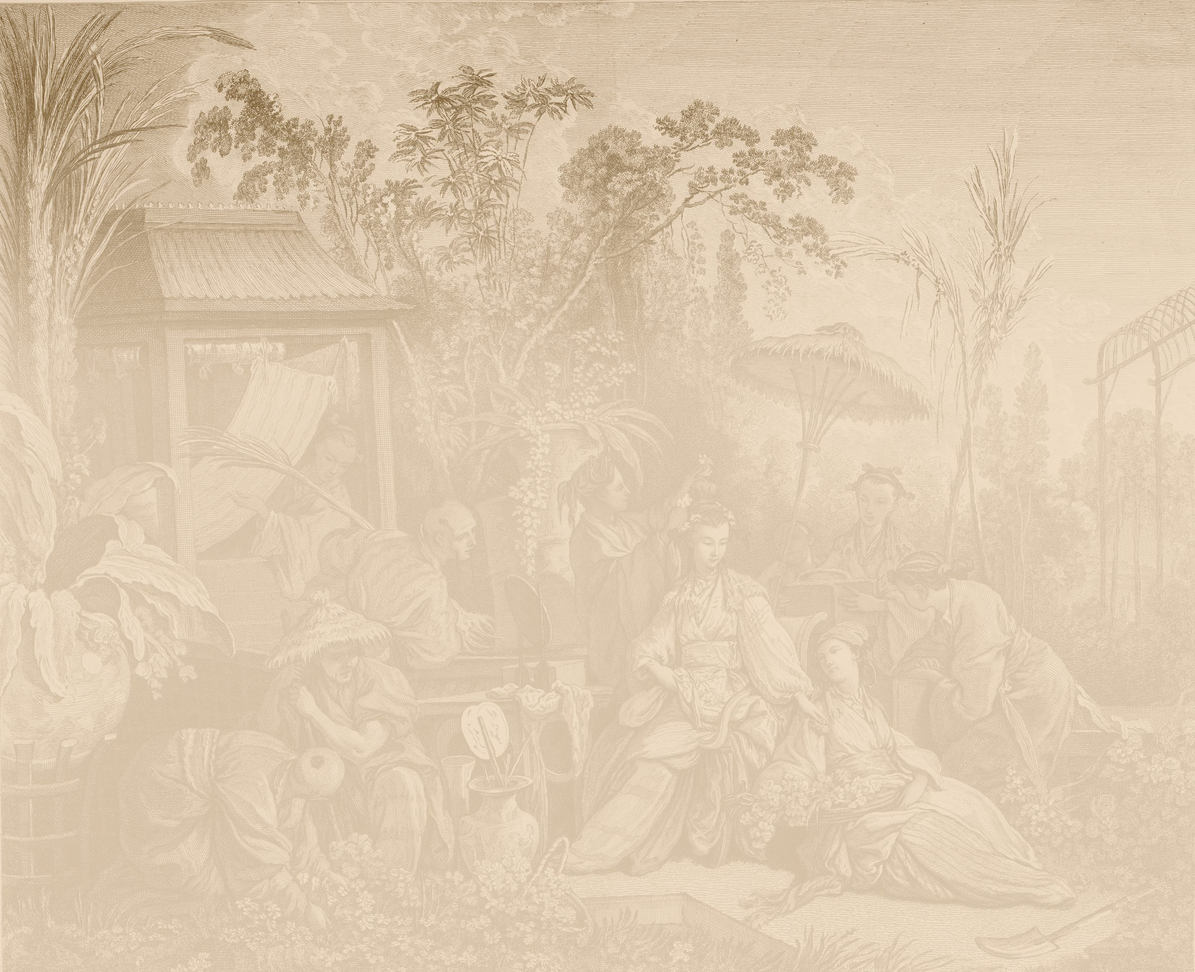
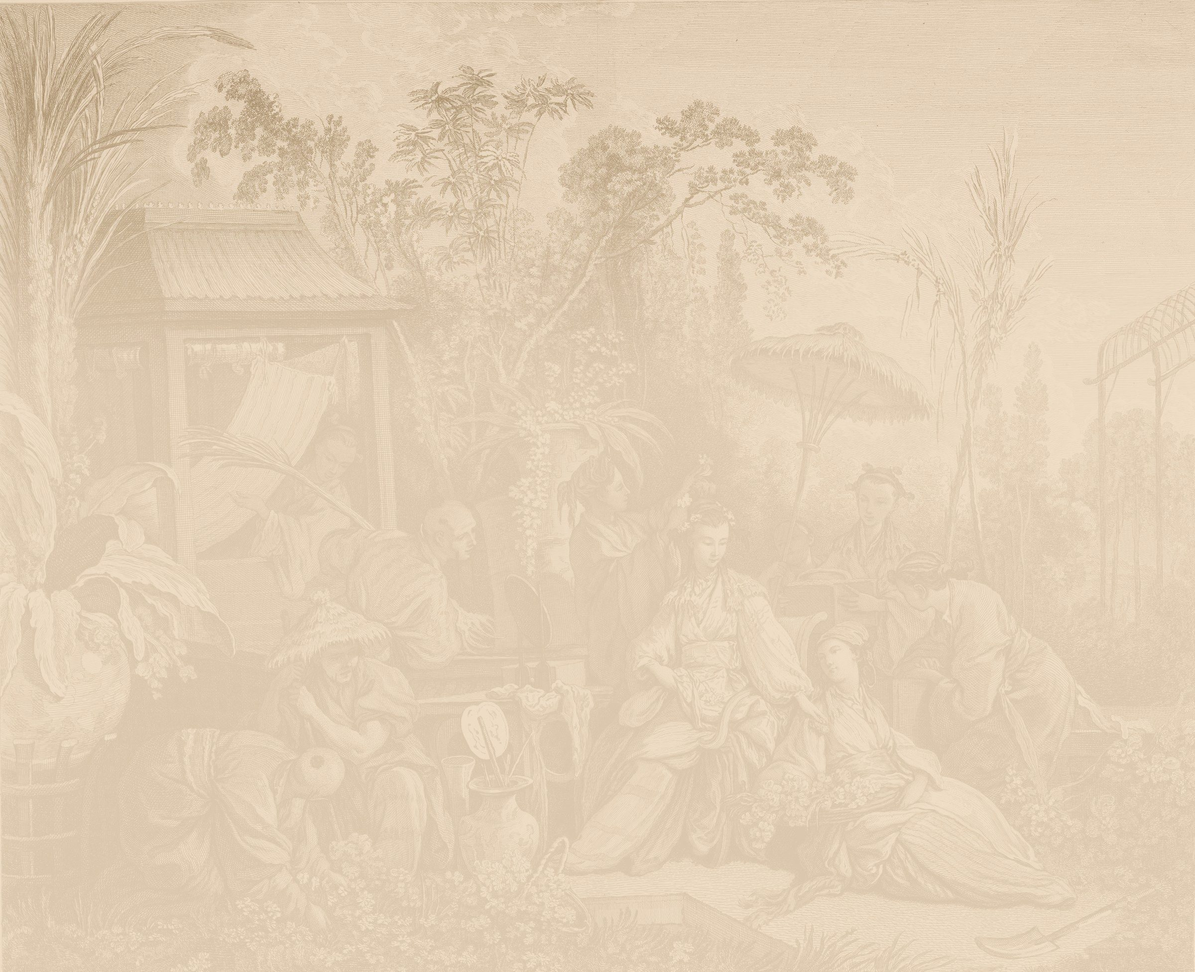
Prototype A: keep the quiet version of the etching

Changed region(s): [[0.0, 0.0, 0.7188, 0.2812], [0.4062, 0.0, 0.5, 0.0312]]

diff --git a/DECISIONS.md b/DECISIONS.md
@@ -251,3 +251,7 @@ Museum model:
 - "Worked with" runs as one line drifting left on a loop (Josh, 26 Oct),
   overriding TASTE 22's "nothing loops". It pauses on hover, and with
   reduced motion it stops and scrolls by hand.
+- Home opening: the etching fills the screen at 60% strength, cropped so
+  the trees and sky sit behind the card (Josh chose this "quiet" version
+  over full strength and a half-page layout, 26 Oct). Featured work uses
+  the same strength, fading to a soft tone behind the lower panes.
